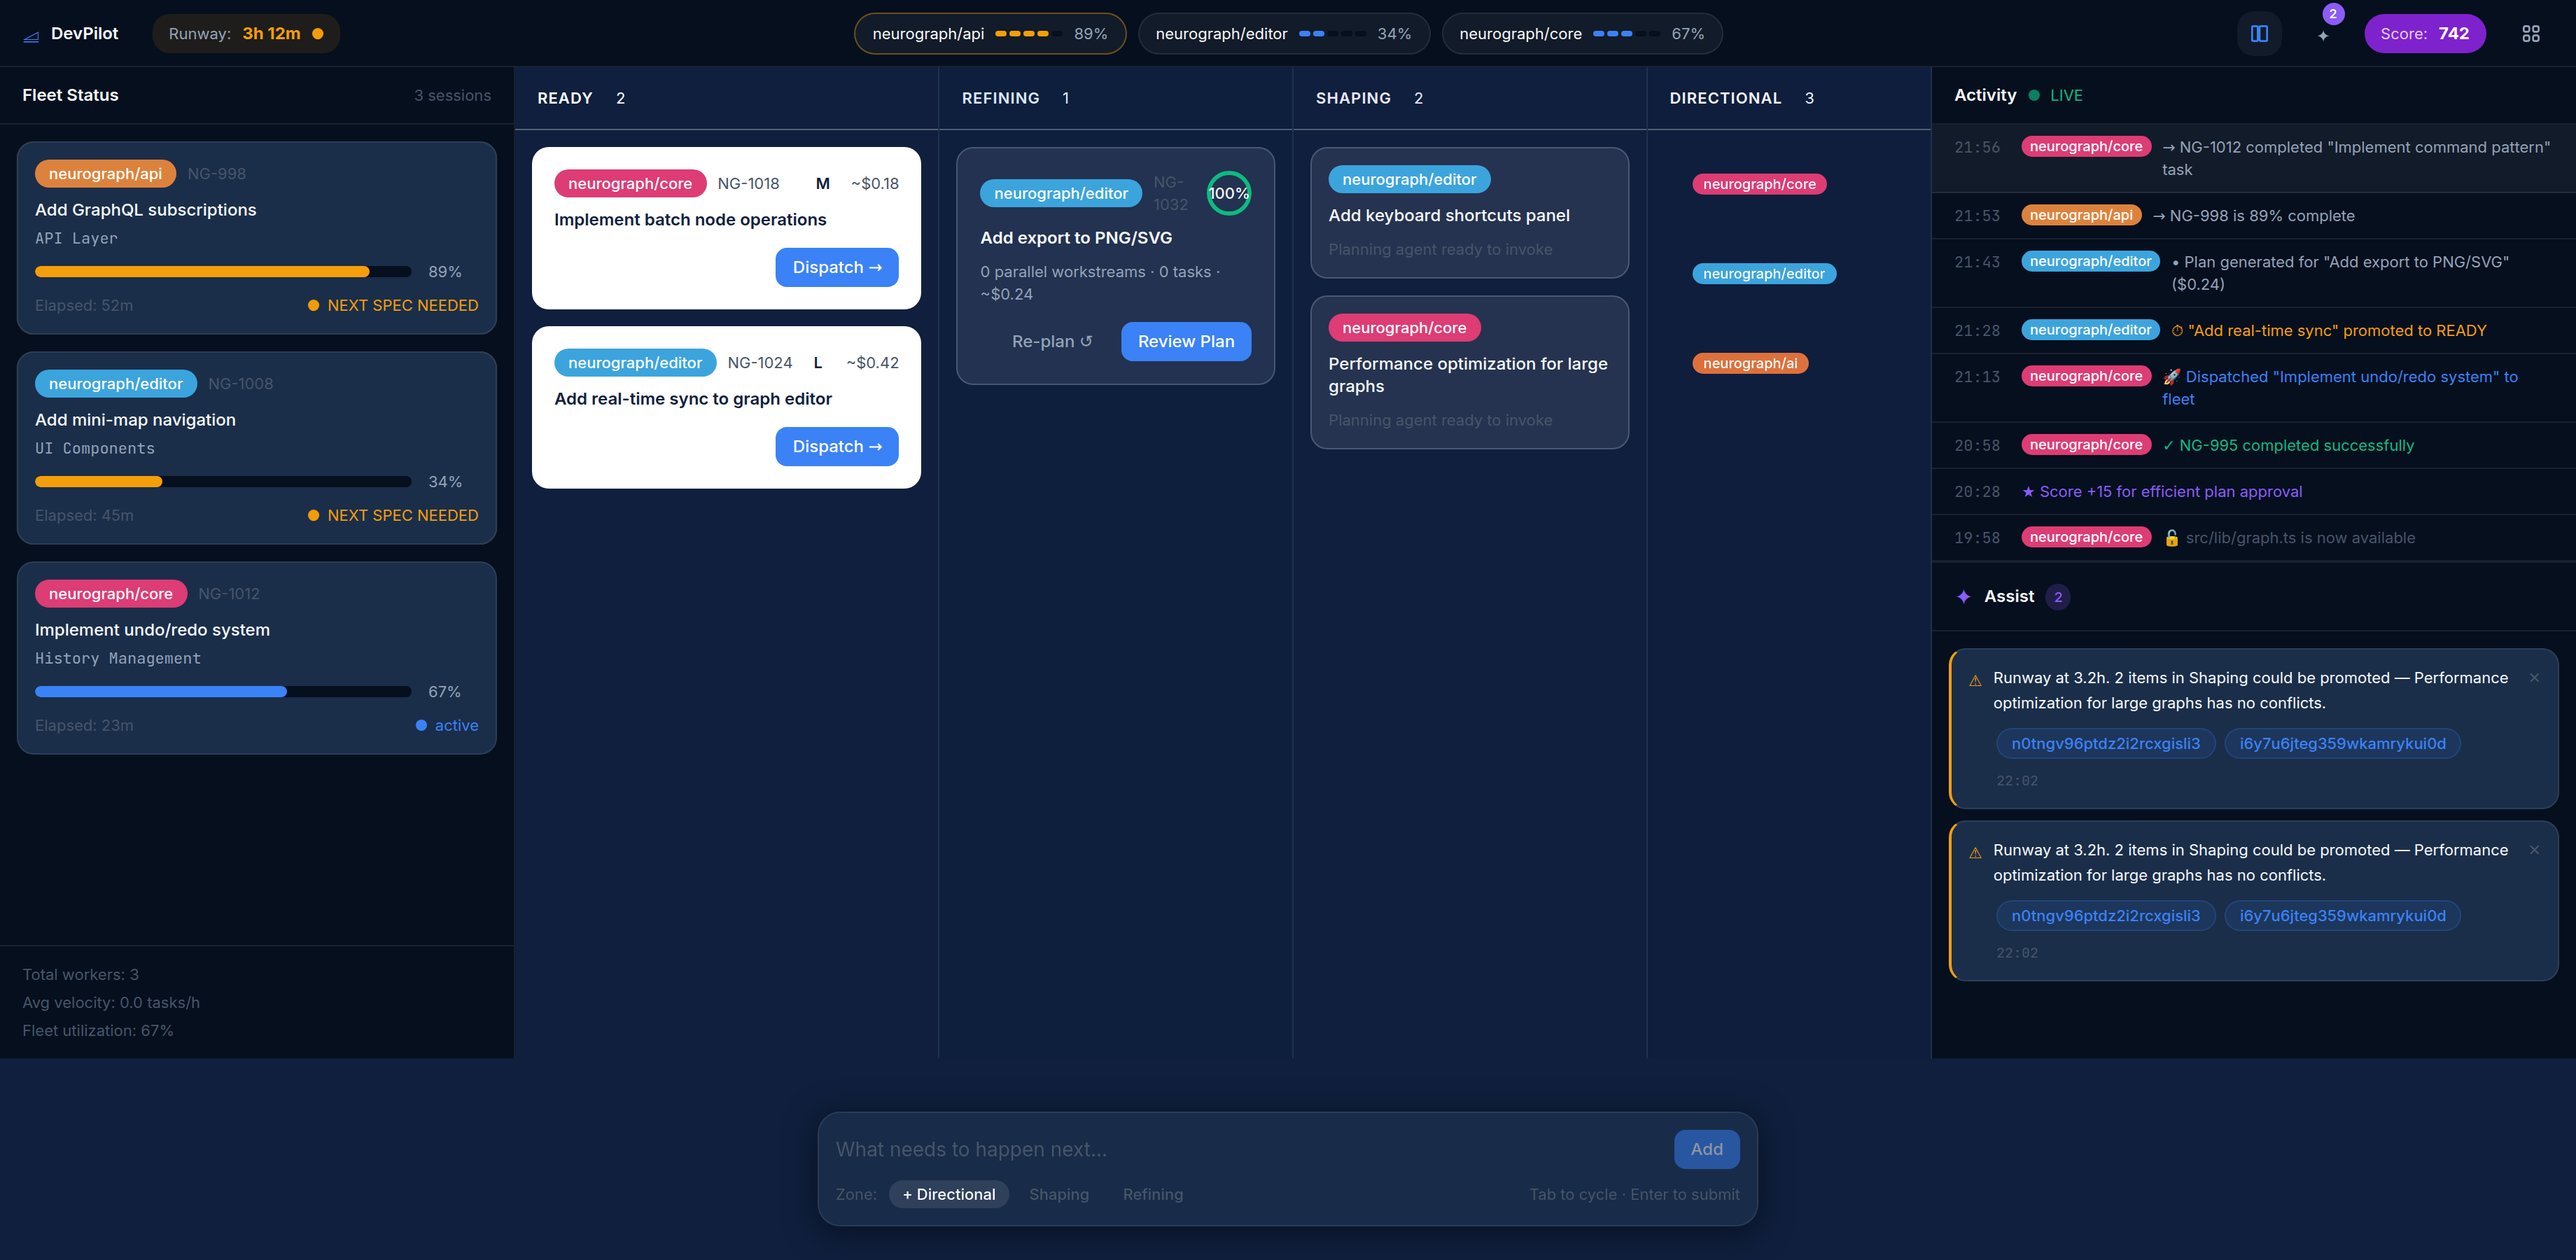
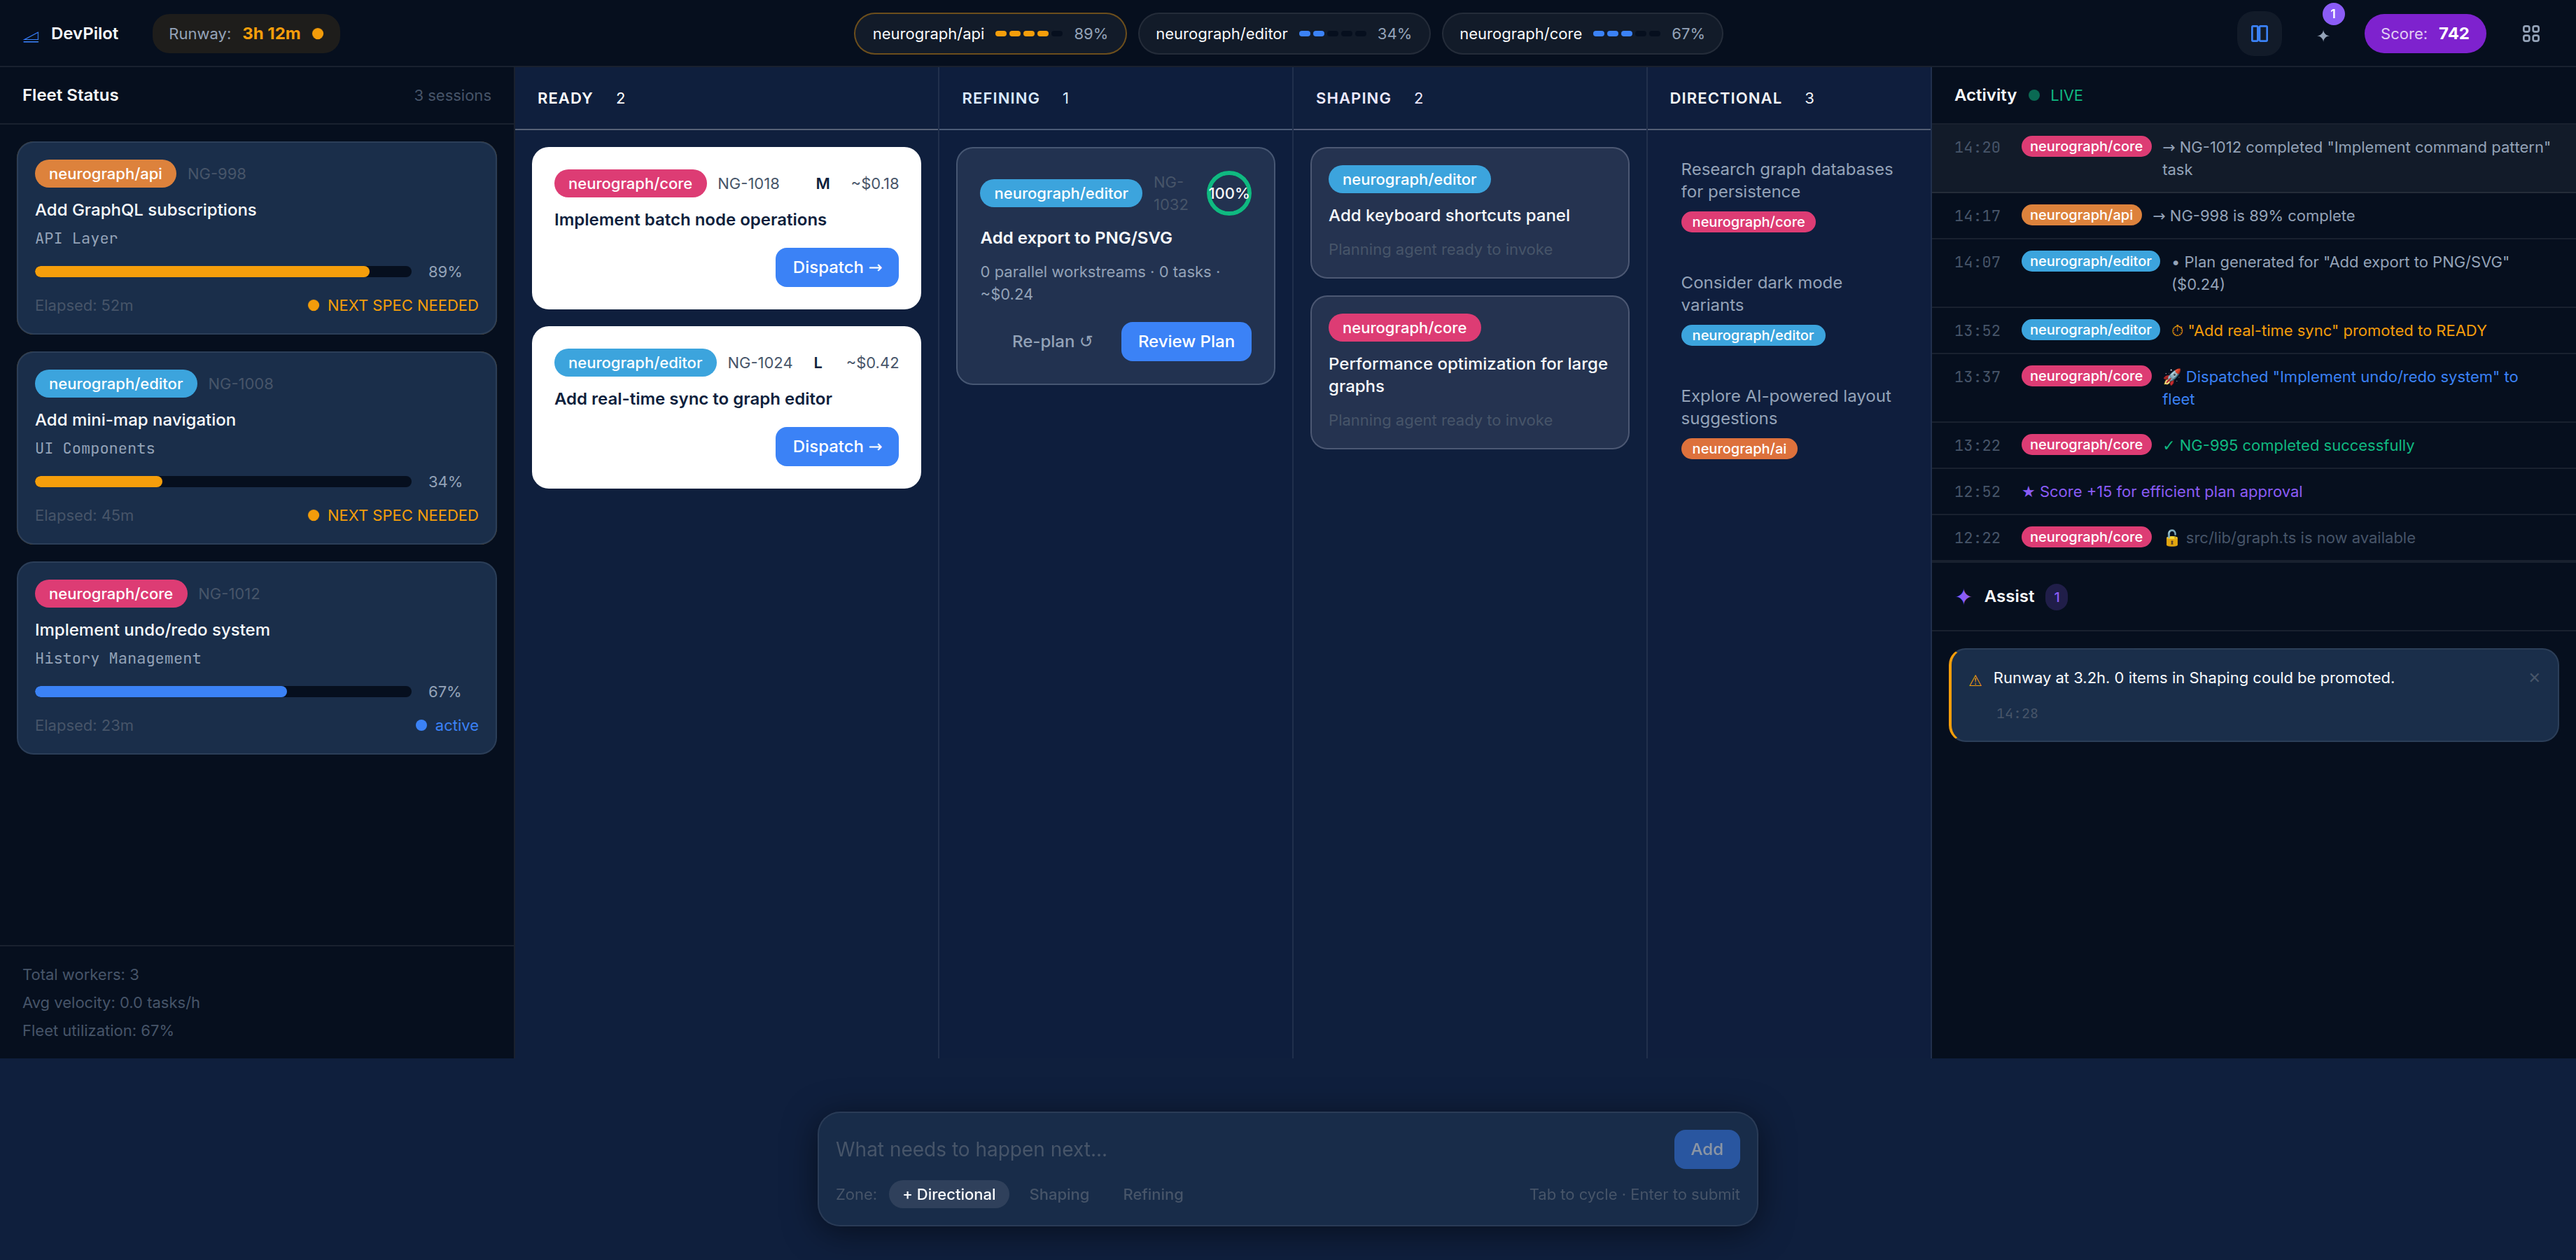
Fix the bugs surfaced while shooting the README screenshots
Three real defects, all found by running the app rather than reading it.

1. Duplicate assist suggestions (src/stores/uiStore.ts)

   On /mission-control two AgenticAssistPanel instances mount — an inline
   one from MissionControl and the route-level overlay from (main)/layout —
   and each runs useAssistTriggers. Both effects read the same
   assistSuggestions snapshot, so both saw an empty existingIds set and both
   appended the same stable id. That collided as a React key ("two children
   with the same key") and made a single dismiss remove both copies, since
   removeAssistSuggestion filters by id.

   Fixed in the store rather than the hook: addAssistSuggestion is now an
   upsert by id, replacing in place and preserving position. That holds no
   matter how many panels mount or how stale a caller's snapshot is.

2. DIRECTIONAL titles truncated to nothing (DirectionalRow.tsx)

   DIRECTIONAL is the narrowest zone at 20% of the surface. The title shared
   a flex row with the repo badge and the promote button, so titles rendered
   as "R...", "Consider...", "Expl...". The title now owns the full row width
   (clamped to two lines) with the repo badge on a meta row beneath it.

   The promote button is absolutely positioned instead of sitting in flow:
   at opacity-0 it still reserved ~85px of the column, which clipped the repo
   badge to "neurograph" once the title moved to its own line. It also gets
[…]

Changed region(s): [[0.75, 0.5289, 1.0, 0.7778], [0.6562, 0.1244, 0.7188, 0.3733]]

diff --git a/src/components/horizon/DirectionalRow.tsx b/src/components/horizon/DirectionalRow.tsx
@@ -27,7 +27,7 @@ export function DirectionalRow({ item }: DirectionalRowProps) {
   return (
     <div
       className={cn(
-        'group flex items-center justify-between rounded-lg px-3 py-2 transition-all duration-150',
+        'group relative rounded-lg px-3 py-2 transition-all duration-150',
         'hover:bg-white/5',
         isSelected && 'bg-white/10'
       )}
@@ -35,38 +35,47 @@ export function DirectionalRow({ item }: DirectionalRowProps) {
       onMouseLeave={() => setIsHovered(false)}
       onClick={() => setSelectedItem(item.id)}
     >
-      {/* Title */}
-      <span className="text-sm text-text-secondary truncate flex-1 mr-2">
+      {/* Title — owns the full row width. DIRECTIONAL is the narrowest zone
+          (20% of the surface), so sharing a line with the repo badge left
+          nothing but an ellipsis. */}
+      <span className="block text-sm text-text-secondary line-clamp-2">
         {item.title}
       </span>
 
-      {/* Right Side */}
-      <div className="flex items-center gap-2">
-        <RepoBadge repo={item.repo} className="text-[10px] px-2 py-0" />
+      {/* Meta row */}
+      <div className="mt-1.5 flex items-center">
+        <RepoBadge
+          repo={item.repo}
+          className="max-w-full truncate text-[10px] px-2 py-0"
+        />
+      </div>
 
-        {/* Promote Button */}
-        <div
-          className={cn(
-            'transition-opacity duration-150',
-            isHovered || isSelected ? 'opacity-100' : 'opacity-0'
-          )}
+      {/* Promote button — absolutely positioned so the hidden state reserves no
+          width. In flow it ate ~85px of this narrow column and clipped the
+          repo badge. */}
+      <div
+        className={cn(
+          'absolute bottom-2 right-3 transition-opacity duration-150',
+          isHovered || isSelected
+            ? 'opacity-100'
+            : 'pointer-events-none opacity-0'
+        )}
+      >
+        <Dropdown
+          trigger={
+            <Button variant="ghost" size="sm" className="text-xs h-7">
+              → Promote
+            </Button>
+          }
+          align="right"
         >
-          <Dropdown
-            trigger={
-              <Button variant="ghost" size="sm" className="text-xs h-7">
-                → Promote
-              </Button>
-            }
-            align="right"
-          >
-            <DropdownItem onClick={() => handlePromote('SHAPING')}>
-              Shaping
-            </DropdownItem>
-            <DropdownItem onClick={() => handlePromote('REFINING')}>
-              Refining
-            </DropdownItem>
-          </Dropdown>
-        </div>
+          <DropdownItem onClick={() => handlePromote('SHAPING')}>
+            Shaping
+          </DropdownItem>
+          <DropdownItem onClick={() => handlePromote('REFINING')}>
+            Refining
+          </DropdownItem>
+        </Dropdown>
       </div>
     </div>
   );

diff --git a/src/stores/uiStore.ts b/src/stores/uiStore.ts
@@ -143,13 +143,30 @@ export const useUIStore = create<UIState>()(
         inlineResponse: null,
         inlineResponseChips: [],
 
+        // Upsert by id. Suggestion ids are stable and derived from their
+        // trigger condition, and useAssistTriggers can run from more than one
+        // mounted panel (Mission Control renders an inline panel alongside the
+        // route-level overlay). Appending blindly produced duplicate ids, which
+        // collided as React keys and made a single dismiss remove both copies.
         addAssistSuggestion: (suggestion) =>
-          set((state) => ({
-            assistSuggestions: [suggestion, ...state.assistSuggestions].slice(
-              0,
-              20
-            ),
-          })),
+          set((state) => {
+            const index = state.assistSuggestions.findIndex(
+              (s) => s.id === suggestion.id
+            );
+
+            if (index !== -1) {
+              const next = [...state.assistSuggestions];
+              next[index] = suggestion;
+              return { assistSuggestions: next };
+            }
+
+            return {
+              assistSuggestions: [suggestion, ...state.assistSuggestions].slice(
+                0,
+                20
+              ),
+            };
+          }),
 
         removeAssistSuggestion: (id) =>
           set((state) => ({
